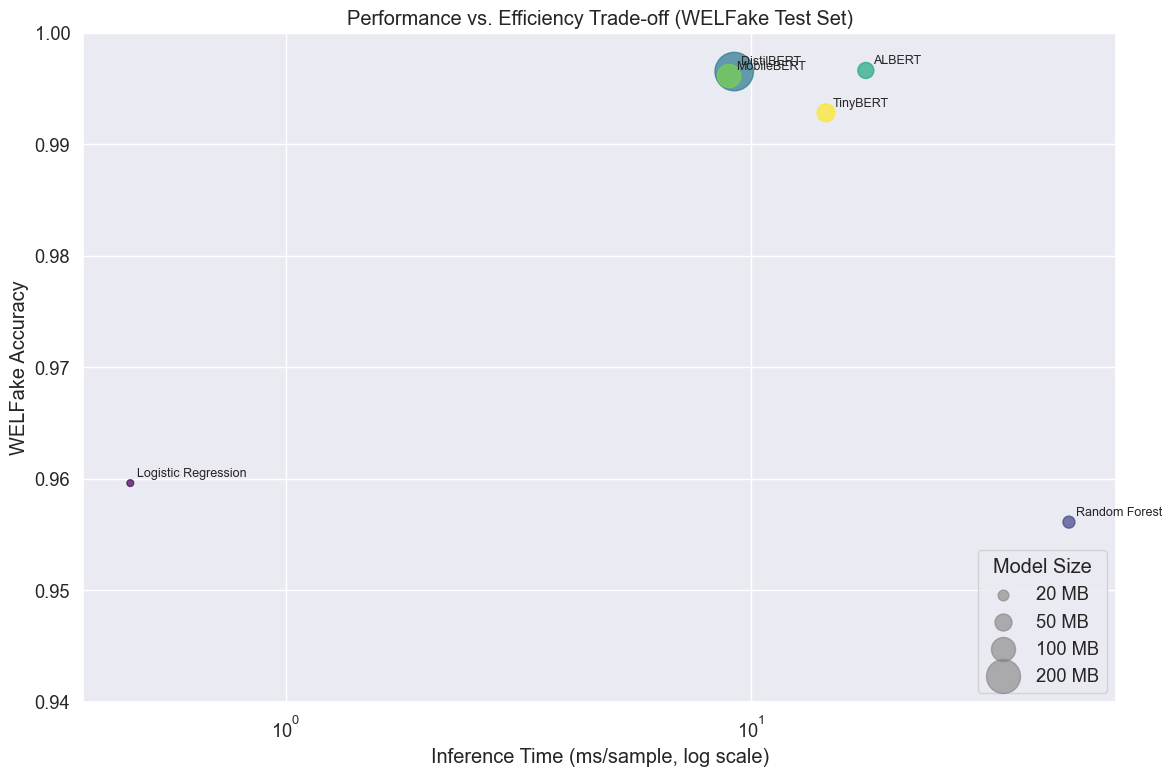
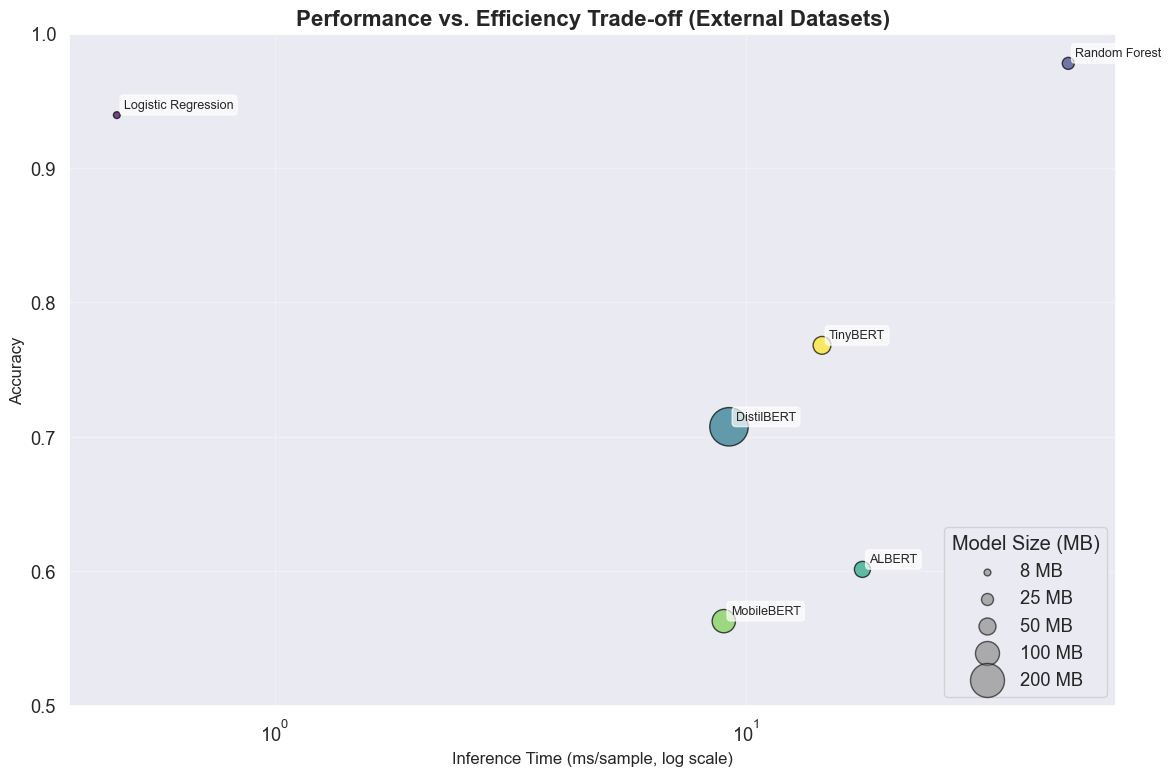
Correct tradeoff plot

diff --git a/comparison/comparative_analysis/comparative_analysis.md b/comparison/comparative_analysis/comparative_analysis.md
@@ -784,41 +784,31 @@ The relationship between performance and efficiency reveals optimal deployment s
 
 
 ```python
-# Create comprehensive trade-off analysis
-trade_off_data = {
-    'Model': efficiency_df['Model'],
-    'WELFake Accuracy': performance_df['Accuracy'],
-    'External Accuracy': external_performance_df['Accuracy'],
-    'Inference Time (ms)': efficiency_df['Inference Time (ms/sample)'],
-    'Model Size (MB)': efficiency_df['Model Size (MB)'],
-    'Training Time (min)': efficiency_df['Training Time (min)']
-}
-trade_off_df = pd.DataFrame(trade_off_data)
-
-# Visualize performance vs. efficiency with model size as context
+# Performance vs. Efficiency Trade-off Plot
 plt.figure(figsize=(12, 8))
-scatter = plt.scatter(trade_off_df['Inference Time (ms)'], trade_off_df['WELFake Accuracy'], 
-                     s=trade_off_df['Model Size (MB)']*3, # Scale bubble size by model size
-                     c=range(len(trade_off_df)), cmap='viridis', alpha=0.7)
+scatter = plt.scatter(trade_off_df['Inference Time (ms)'], trade_off_df['External Accuracy'], 
+                     s=trade_off_df['Model Size (MB)']*3, c=range(len(trade_off_df)), 
+                     cmap='viridis', alpha=0.7, edgecolors='black', linewidth=1)
 
-plt.title('Performance vs. Efficiency Trade-off (WELFake Test Set)')
-plt.xscale('log')  # Use log scale for inference time
-plt.xlabel('Inference Time (ms/sample, log scale)')
-plt.ylabel('WELFake Accuracy')
-plt.ylim(0.94, 1.0)
+plt.title('Performance vs. Efficiency Trade-off (External Datasets)', fontsize=16, fontweight='bold')
+plt.xscale('log')
+plt.xlabel('Inference Time (ms/sample, log scale)', fontsize=12)
+plt.ylabel('Accuracy', fontsize=12)
+plt.ylim(0.5, 1.0)
 
-# Add model labels for easy identification
+# Add model labels
 for i, row in trade_off_df.iterrows():
-    plt.annotate(row['Model'], 
-                (row['Inference Time (ms)'], row['WELFake Accuracy']),
-                xytext=(5, 5), textcoords='offset points', fontsize=9)
+    plt.annotate(row['Model'], (row['Inference Time (ms)'], row['External Accuracy']),
+                xytext=(5, 5), textcoords='offset points', fontsize=9,
+                bbox=dict(boxstyle='round,pad=0.3', facecolor='white', alpha=0.7))
 
 # Add legend for bubble sizes
-sizes = [20, 50, 100, 200]
-labels = ['20 MB', '50 MB', '100 MB', '200 MB']
-legend_elements = [plt.scatter([], [], s=s*3, c='gray', alpha=0.6) for s in sizes]
-plt.legend(legend_elements, labels, title="Model Size", loc='lower right')
+sizes = [8, 25, 50, 100, 200]
+labels = ['8 MB', '25 MB', '50 MB', '100 MB', '200 MB']
+legend_elements = [plt.scatter([], [], s=s*3, c='gray', alpha=0.6, edgecolors='black') for s in sizes]
+plt.legend(legend_elements, labels, title="Model Size (MB)", loc='lower right')
 
+plt.grid(True, alpha=0.3)
 plt.tight_layout()
 plt.show()
 ```
